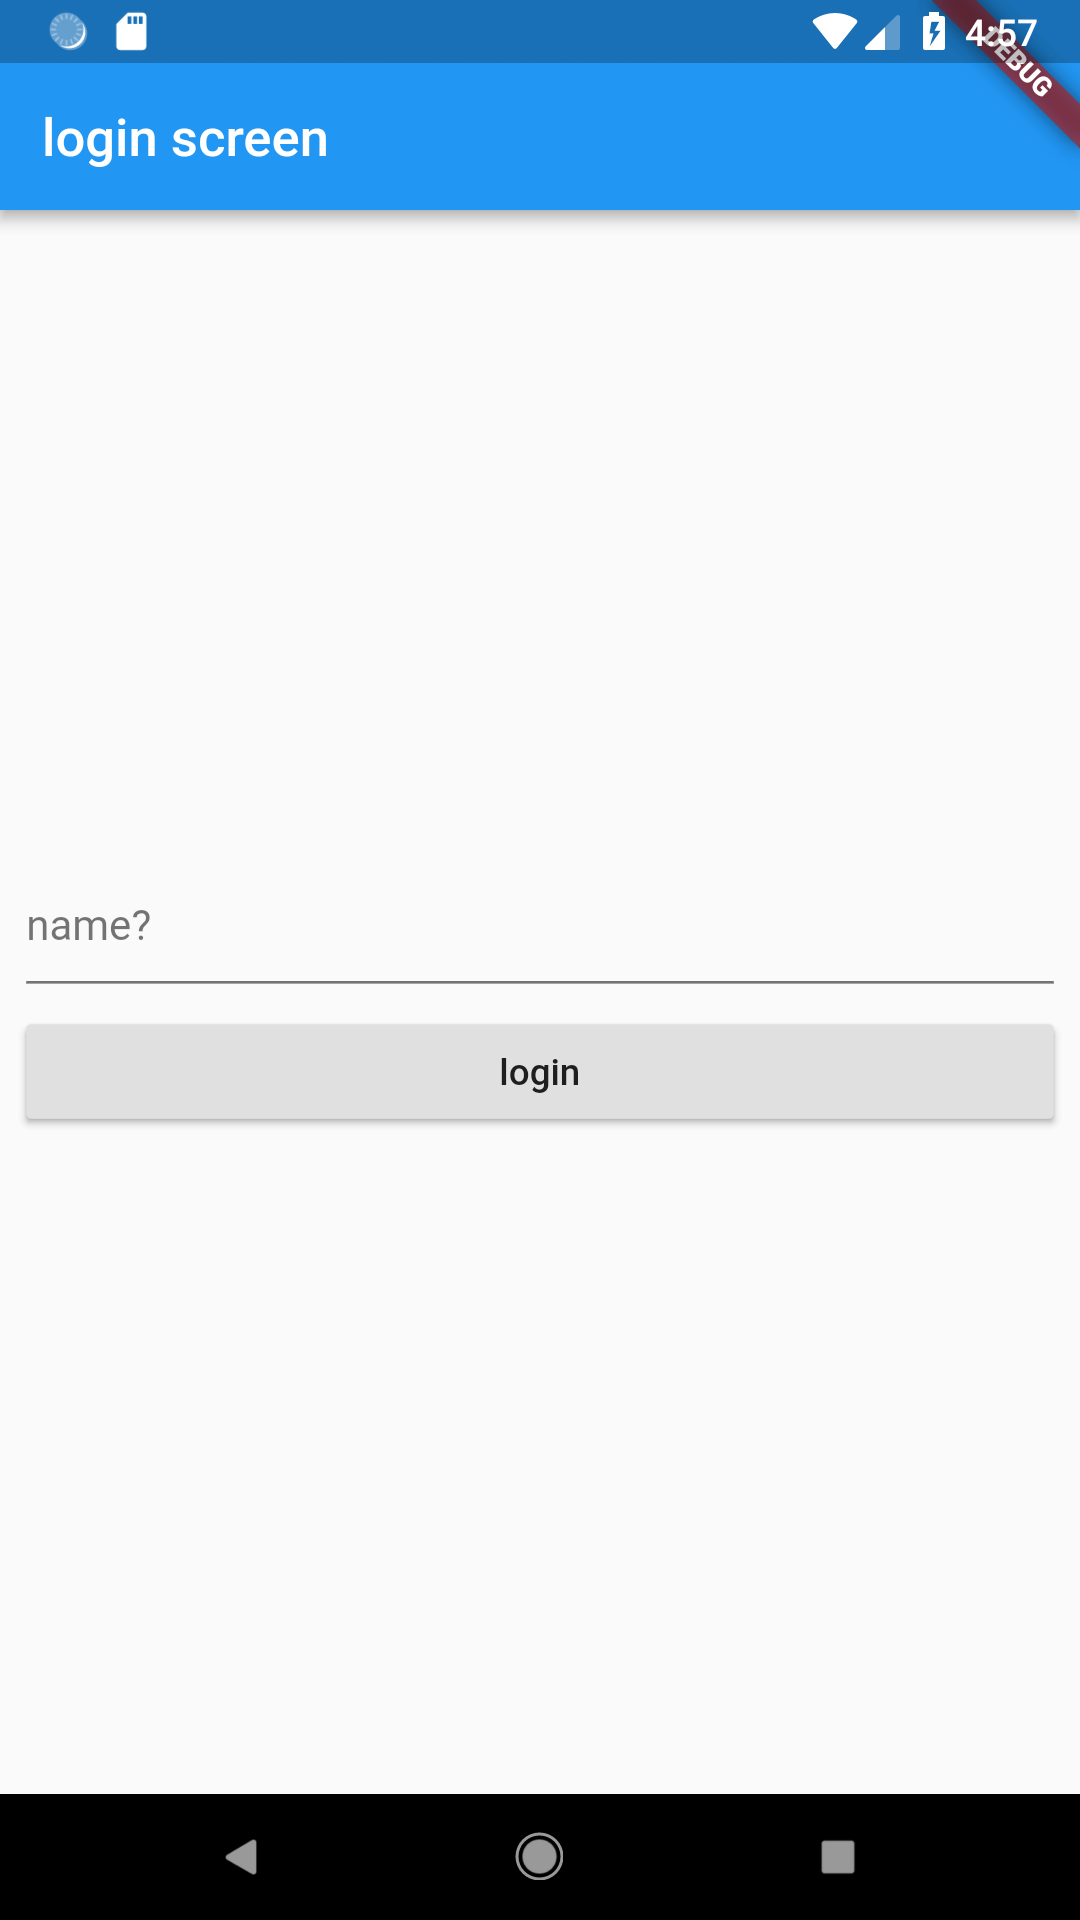
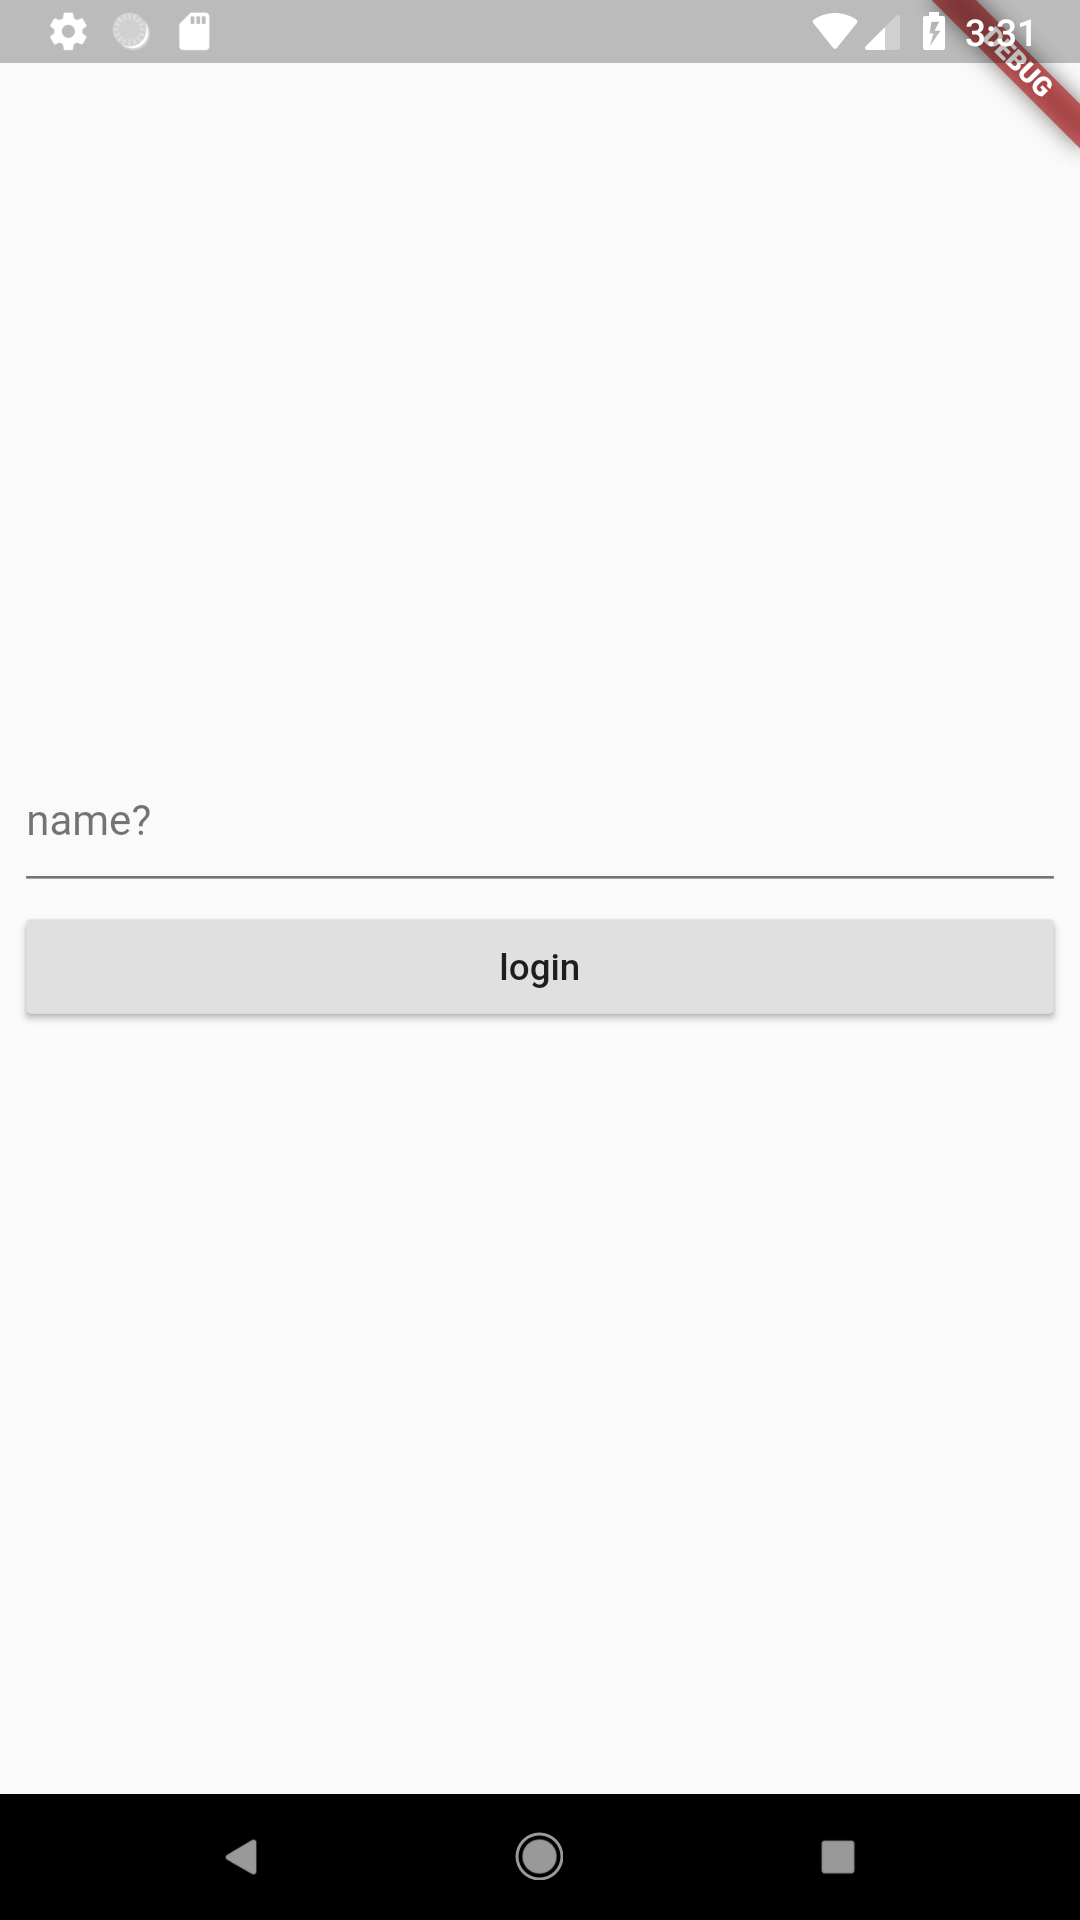
todo local rebuild

Changed region(s): [[0.0, 0.0, 1.0, 0.125], [0.0, 0.4688, 0.9778, 0.5938], [0.0306, 0.4062, 0.1222, 0.4375]]

diff --git a/lib/screens/home_screen.dart b/lib/screens/home_screen.dart
@@ -5,9 +5,13 @@ import 'package:redux/redux.dart';
 import 'package:flutter_redux/flutter_redux.dart';
 
 import 'package:flutterlogin/actions/device_action.dart';
+import 'package:flutterlogin/actions/todo_action.dart';
 import 'package:flutterlogin/models/device_model.dart';
+import 'package:flutterlogin/models/todo_model.dart';
 
 class HomeScreen extends StatelessWidget {
+  final TextEditingController controller = TextEditingController();
+
   @override
   Widget build(BuildContext context) {
     return StoreConnector(
@@ -16,23 +20,51 @@ class HomeScreen extends StatelessWidget {
             appBar: AppBar(
               title: Text('home screen'),
             ),
+            drawer: Drawer(
+              child: ListView(
+                children: <Widget>[
+                  UserAccountsDrawerHeader(
+                    accountName: Text(model.devices.name),
+                  ),
+                  ListTile(
+                    onTap: () {
+                      Navigator.of(context).pop();
+                      model.onLogout(false);
+                    },
+                    title: Text('logout'),
+                  )
+                ],
+              ),
+            ),
             body: Padding(
               padding: const EdgeInsets.all(8.0),
               child: Column(
-                mainAxisAlignment: MainAxisAlignment.center,
+                mainAxisAlignment: MainAxisAlignment.start,
                 crossAxisAlignment: CrossAxisAlignment.stretch,
                 children: <Widget>[
-                  Center(
-                    child: Text(
-                      'Hi! ' + model.devices.name,
-                      style: TextStyle(fontSize: 32.0),
-                    ),
-                  ),
-                  RaisedButton(
-                    onPressed: () {
-                      model.onLogout(false);
+                  TextField(
+                    controller: controller,
+                    decoration: InputDecoration(hintText: 'todo?'),
+                    onSubmitted: (str) {
+                      model.onAddTodo(str);
+                      controller.text = '';
                     },
-                    child: Text('logout'),
+                  ),
+                  Expanded(
+                    child: ListView(
+                      children: model.todos.todo.map((t) {
+                          return ListTile(
+                            title: Text(t),
+                            leading: IconButton(
+                              onPressed: () {
+                                model.onRemoveTodo(t);
+                              },
+                              icon: Icon(Icons.delete),
+                            ),
+                          );
+                        },
+                      ).toList(),
+                    ),
                   ),
                 ],
               ),
@@ -44,15 +76,37 @@ class HomeScreen extends StatelessWidget {
 
 class _ViewModel {
   Device devices;
+  ToDo todos;
   Function(bool) onLogout;
+  Function(String) onAddTodo;
+  Function(String) onRemoveTodo;
 
-  _ViewModel({this.devices, this.onLogout});
+  _ViewModel(
+      {this.devices,
+      this.todos,
+      this.onLogout,
+      this.onAddTodo,
+      this.onRemoveTodo});
 
   factory _ViewModel.create(Store<AppState> store) {
     _onLogout(bool status) {
       store.dispatch(LogoutAction(status: status));
     }
 
-    return _ViewModel(devices: store.state.devices, onLogout: _onLogout);
+    _onAddTodo(String item) {
+      store.dispatch(AddTodoAction(item: item));
+    }
+
+    _onRemoveTodo(String item) {
+      store.dispatch(RemoveTodoAction(item: item));
+    }
+
+    return _ViewModel(
+      todos: store.state.todos,
+      devices: store.state.devices,
+      onLogout: _onLogout,
+      onAddTodo: _onAddTodo,
+      onRemoveTodo: _onRemoveTodo,
+    );
   }
 }

diff --git a/lib/models/models.dart b/lib/models/models.dart
@@ -1,21 +1,25 @@
 import 'package:flutterlogin/models/device_model.dart';
 import 'package:flutterlogin/models/user_model.dart';
+import 'package:flutterlogin/models/todo_model.dart';
 
 class AppState {
   final Device devices;
   final User users;
+  final ToDo todos;
 
-  AppState({this.devices, this.users});
+  AppState({this.devices, this.users, this.todos});
 
   AppState.initialState()
       : devices = Device(),
-        users = User();
+        users = User(),
+        todos = ToDo(todo: []);
 
   static AppState fromJson(dynamic json) {
     print(json);
     if (json != null) {
       return AppState(
         devices: Device.fromJson(json['devices']),
+        todos: ToDo.fromJson(json['todos']),
       );
     } else {
       return AppState.initialState();
@@ -25,6 +29,7 @@ class AppState {
   dynamic toJson() => {
     'devices': devices,
     'users': users,
+    'todos': todos,
   };
 
 }

diff --git a/lib/reducers/todo_reducer.dart b/lib/reducers/todo_reducer.dart
@@ -1,0 +1,26 @@
+import 'package:redux/redux.dart';
+
+import 'package:flutterlogin/models/todo_model.dart';
+import 'package:flutterlogin/actions/todo_action.dart';
+
+Reducer<ToDo> todoReducer =combineReducers<ToDo>([
+  TypedReducer<ToDo, AddTodoAction>(addReducer),
+  TypedReducer<ToDo, RemoveTodoAction>(removeReduder),
+  TypedReducer<ToDo, UpdateTodoAction>(updateReducer),
+]);
+
+ToDo addReducer(ToDo todos, AddTodoAction action){
+  return todos.copyWith(
+    todo: []..addAll(todos.todo)..add(action.item)
+  );
+}
+
+ToDo removeReduder(ToDo todos, RemoveTodoAction action){
+  return todos.copyWith(
+    todo: []..addAll(todos.todo)..remove(action.item)
+  );
+}
+
+ToDo updateReducer(ToDo todos, UpdateTodoAction action){
+  return todos;
+}

diff --git a/lib/reducers/reducers.dart b/lib/reducers/reducers.dart
@@ -2,10 +2,13 @@ import 'package:flutterlogin/models/models.dart';
 
 import 'package:flutterlogin/reducers/device_reducer.dart';
 import 'package:flutterlogin/reducers/user_reducer.dart';
+import 'package:flutterlogin/reducers/todo_reducer.dart';
+
 
 AppState appStateReducer(AppState state, action) {
   return AppState(
     devices: deviceReducer(state.devices, action),
     users: userReducer(state.users, action),
+    todos: todoReducer(state.todos, action),
   );
 }

diff --git a/lib/screens/login_screen.dart b/lib/screens/login_screen.dart
@@ -19,9 +19,6 @@ class _LoginScreenState extends State<LoginScreen> {
     return StoreConnector(
       converter: (Store<AppState> store) => _ViewModel.create(store),
       builder: (BuildContext context, _ViewModel model) => Scaffold(
-            appBar: AppBar(
-              title: Text('login screen'),
-            ),
             body: Padding(
               padding: const EdgeInsets.all(10.0),
               child: Column(

diff --git a/lib/models/todo_model.dart b/lib/models/todo_model.dart
@@ -1,0 +1,27 @@
+class ToDo {
+  final List todo;
+
+  ToDo({this.todo});
+
+  ToDo copyWith({List todo}) {
+    return ToDo(
+      todo: todo ?? this.todo,
+    );
+  }
+
+  Map toJson() => {
+    'todo': todo
+  };
+
+  static ToDo fromJson(json) {
+    return ToDo(
+      todo: json['todo'],
+    );
+  }
+
+  @override
+  String toString() {
+    return toJson().toString();
+  }
+
+}

diff --git a/lib/actions/todo_action.dart b/lib/actions/todo_action.dart
@@ -1,0 +1,14 @@
+class AddTodoAction {
+  String item;
+  AddTodoAction({this.item});
+}
+
+class RemoveTodoAction {
+  String item;
+  RemoveTodoAction({this.item});
+}
+
+class UpdateTodoAction {
+  String item;
+  UpdateTodoAction({this.item});
+}

diff --git a/README.md b/README.md
@@ -1,7 +1,14 @@
 # flutterlogin
 Login page with redux and best snake structure :)
 
-<img src="https://raw.githubusercontent.com/fariswd/login-flutter/master/ss1.png" height="300"><img src="https://raw.githubusercontent.com/fariswd/login-flutter/master/ss2.png" height="300"><img src="https://raw.githubusercontent.com/fariswd/login-flutter/master/ss3.png" height="300">
+## Feature
+- ToDo list (CRD)
+- Implement Redux
+- with Redux Persist
+- Implement Redux Persist for Authenticate user/login page
+- multiple model & reducer
+
+<img src="https://raw.githubusercontent.com/fariswd/login-flutter/master/ss1.png" height="300"><img src="https://raw.githubusercontent.com/fariswd/login-flutter/master/ss2.png" height="300"><img src="https://raw.githubusercontent.com/fariswd/login-flutter/master/ss3.png" height="300"><img src="https://raw.githubusercontent.com/fariswd/login-flutter/master/ss4.png" height="300">
 
 fariswd  
 2019 🎯
